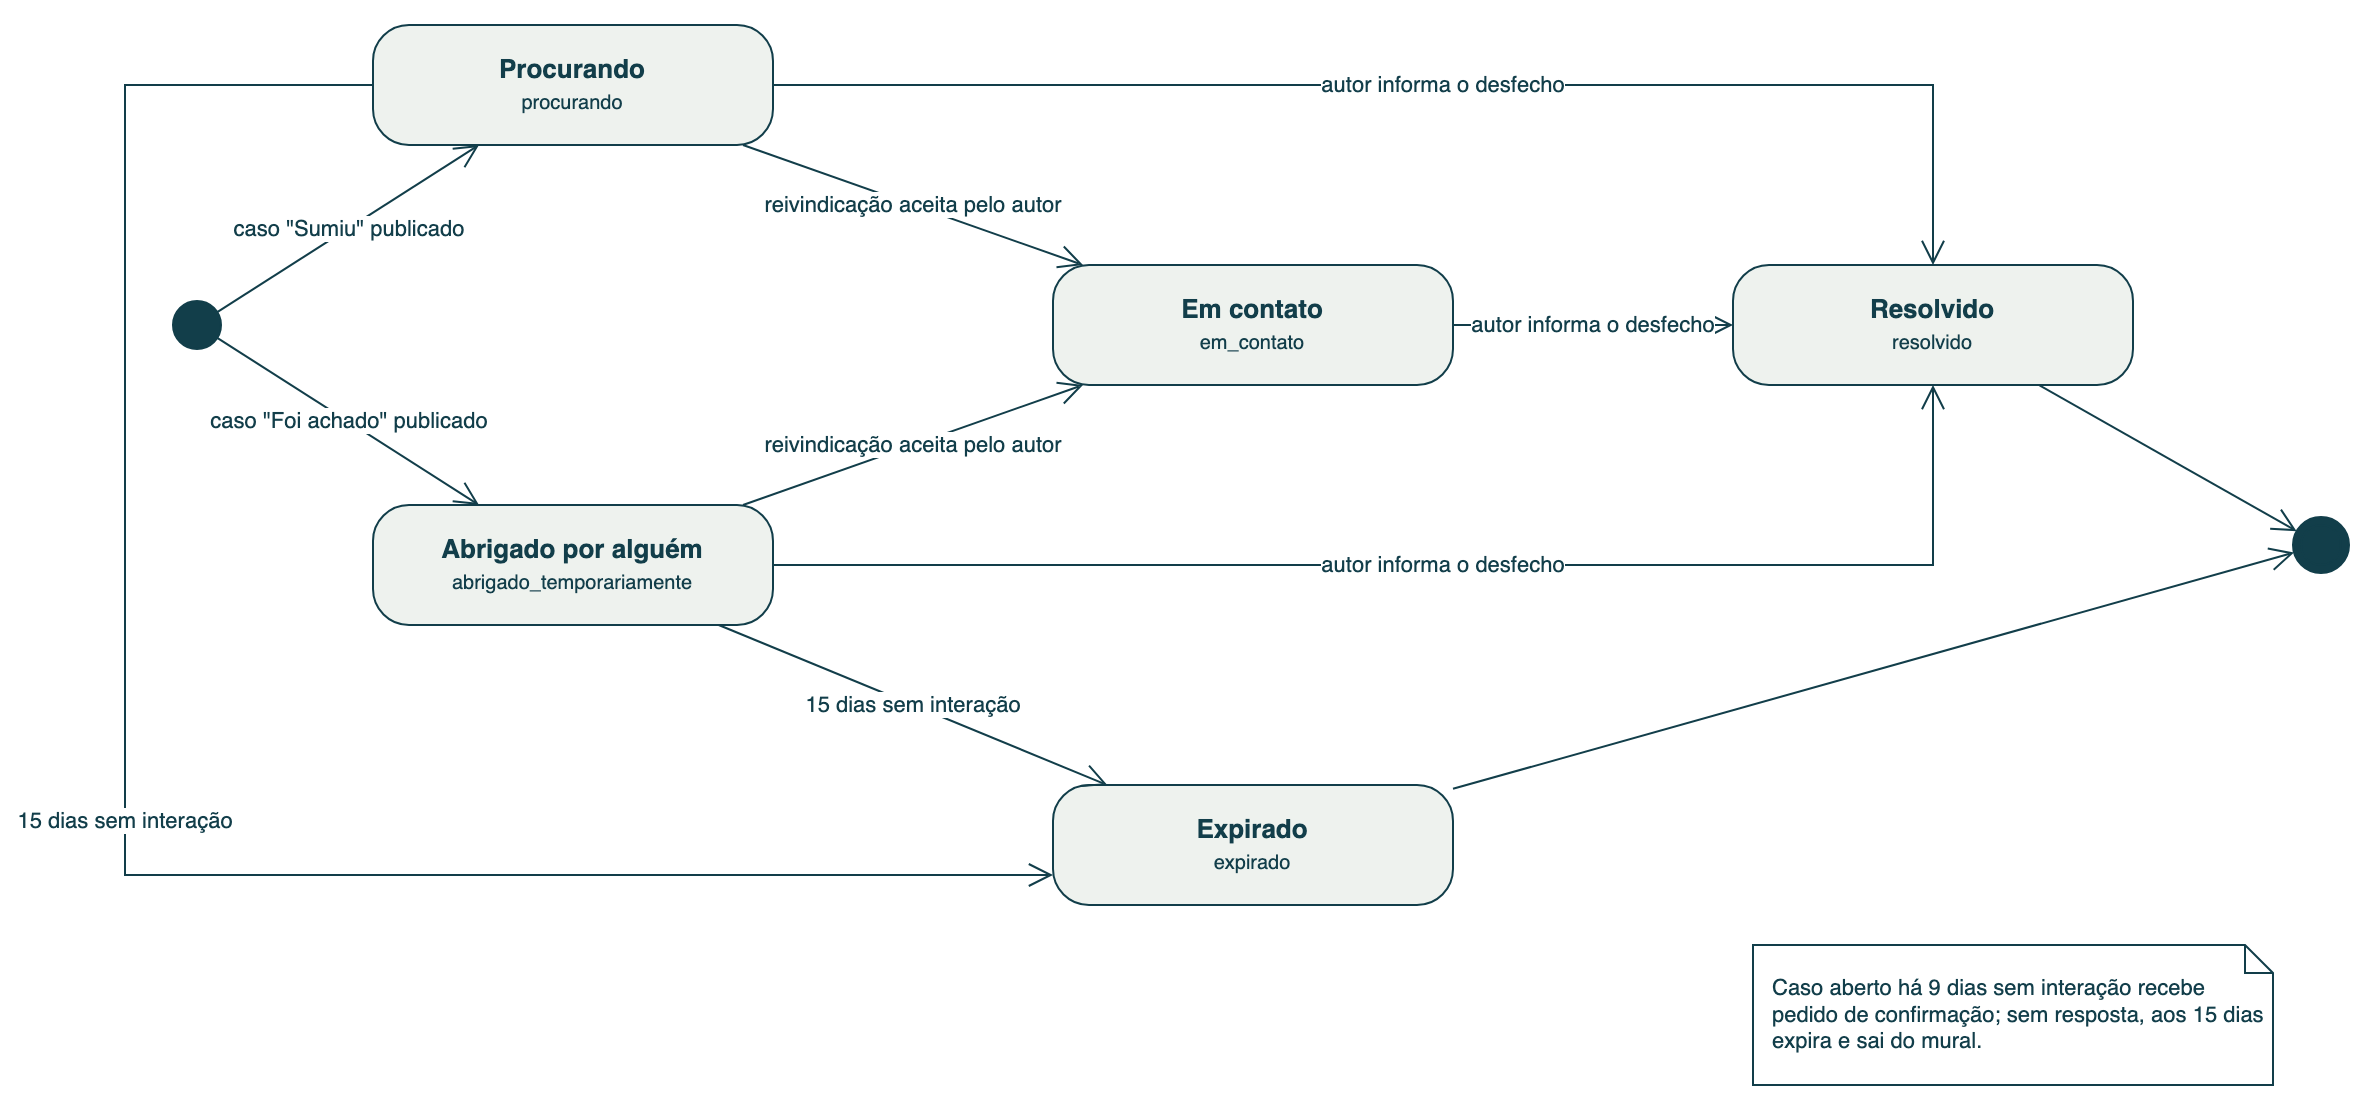
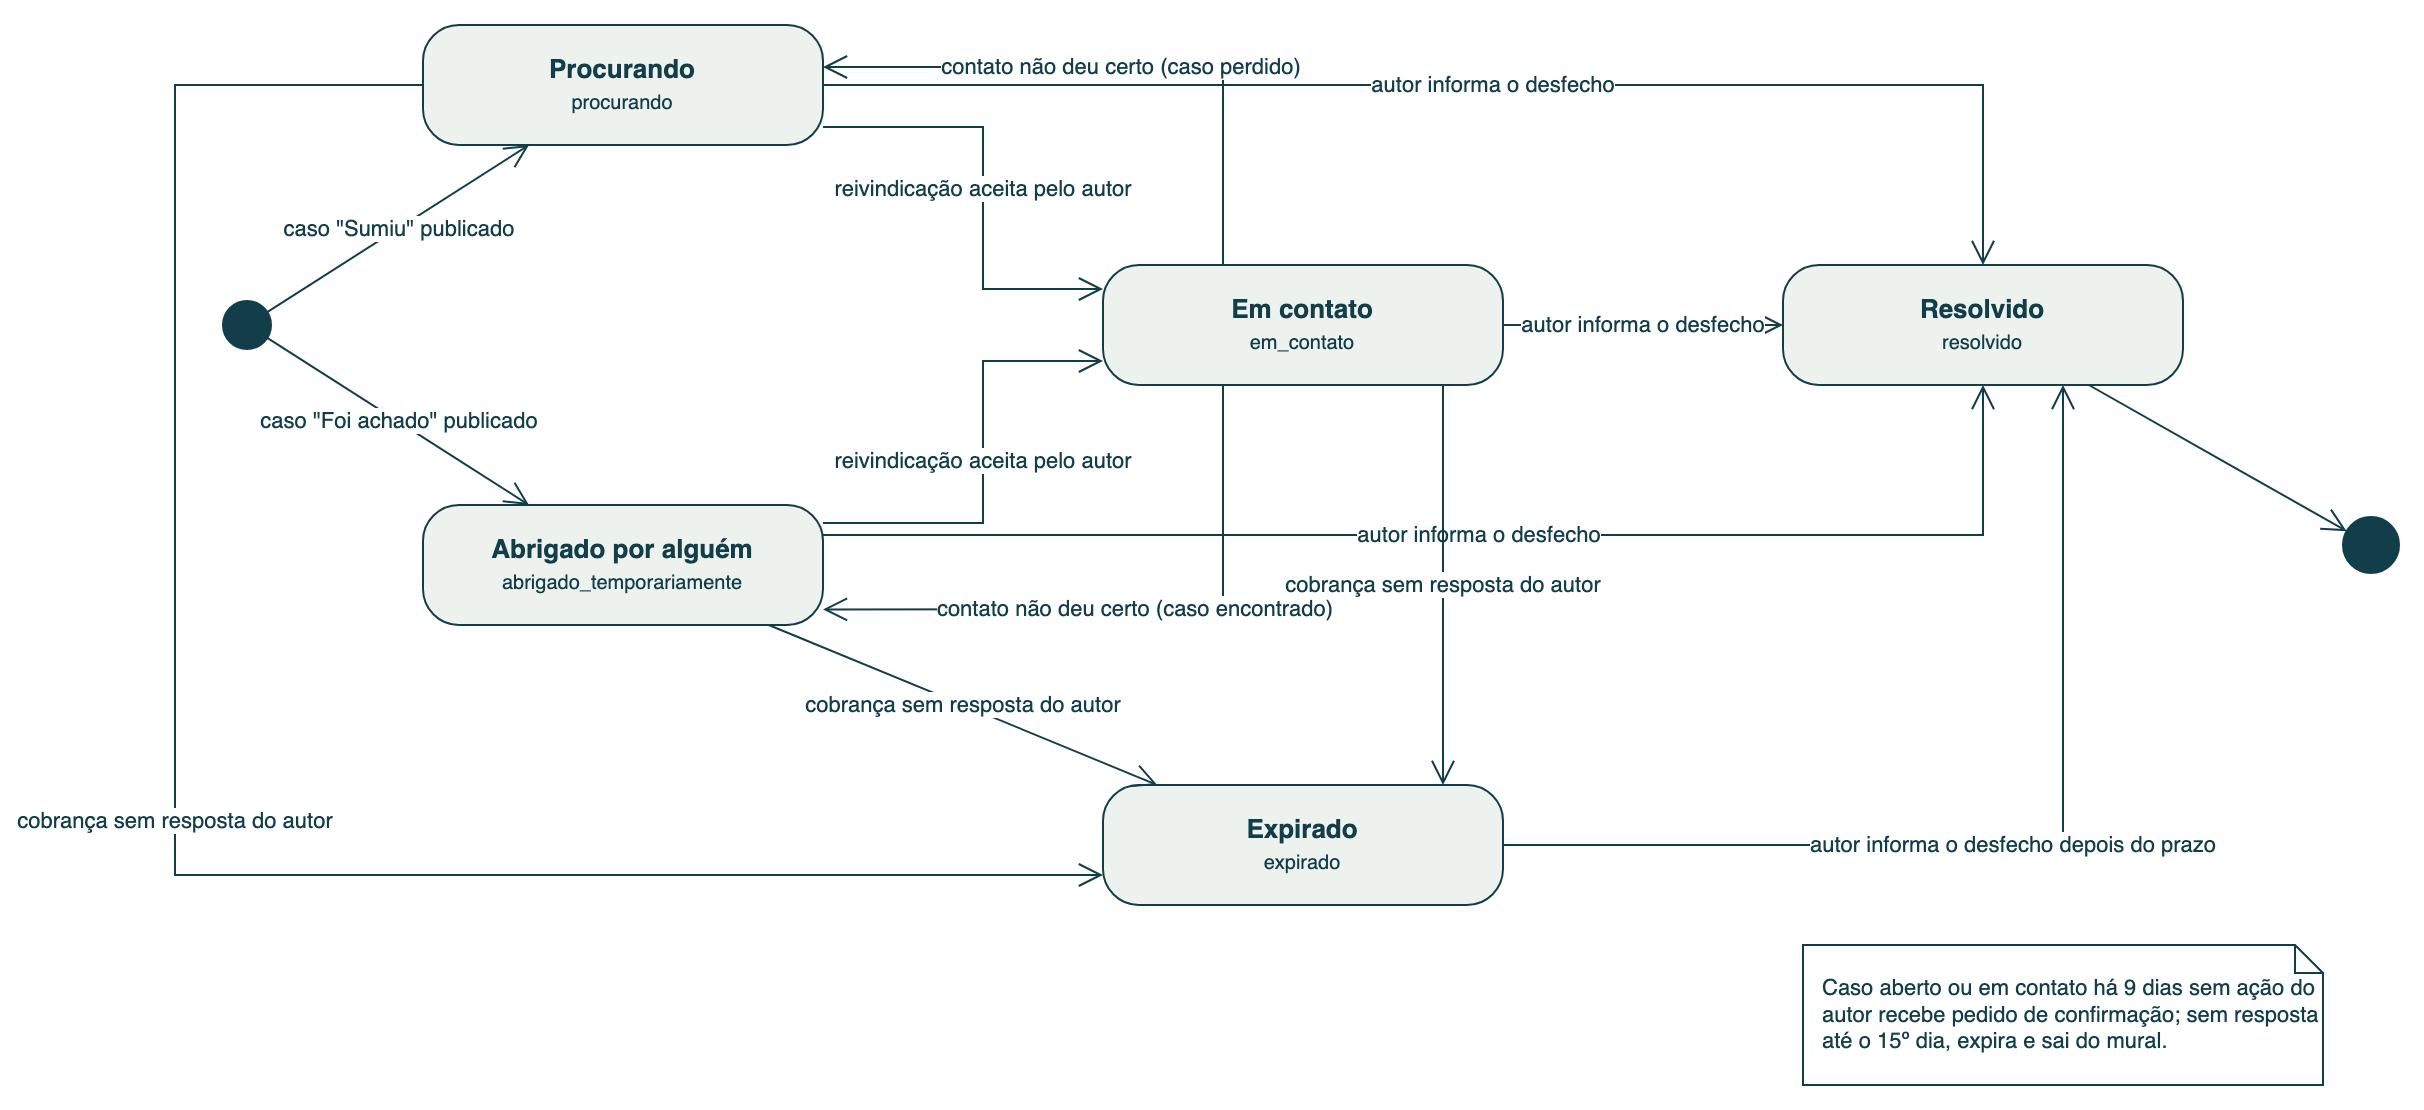
feat(api): migração de reivindicação com código, denúncia, cobrança e id do aparelho; UML regerada

diff --git a/apps/api/src/uml/diagrama-estados.ts b/apps/api/src/uml/diagrama-estados.ts
@@ -28,8 +28,15 @@ const FIM = { x: 1100, y: 326 }
 // desvios para as setas longas não atravessarem outra caixa
 const DESVIOS: Partial<Record<`${EstadoCaso}>${EstadoCaso}`, { pontos: [number, number][]; estilo?: string }>> = {
   'procurando>resolvido': { pontos: [[920, 110]], estilo: 'exitX=1;exitY=0.5;entryX=0.5;entryY=0;' },
-  'abrigado_temporariamente>resolvido': { pontos: [[920, 350]], estilo: 'exitX=1;exitY=0.5;entryX=0.5;entryY=1;' },
+  'abrigado_temporariamente>resolvido': { pontos: [[920, 335]], estilo: 'exitX=1;exitY=0.25;entryX=0.5;entryY=1;' },
   'procurando>expirado': { pontos: [[16, 110], [16, 505]], estilo: 'exitX=0;exitY=0.5;entryX=0;entryY=0.75;' },
+  // ida e volta entre o estado inicial e em_contato seguem caminhos separados
+  'procurando>em_contato': { pontos: [[420, 131], [420, 212]], estilo: 'exitX=1;exitY=0.85;entryX=0;entryY=0.2;' },
+  'em_contato>procurando': { pontos: [[540, 101]], estilo: 'exitX=0.3;exitY=0;entryX=1;entryY=0.35;' },
+  'abrigado_temporariamente>em_contato': { pontos: [[420, 329], [420, 248]], estilo: 'exitX=1;exitY=0.15;entryX=0;entryY=0.8;' },
+  'em_contato>abrigado_temporariamente': { pontos: [[540, 372]], estilo: 'exitX=0.3;exitY=1;entryX=1;entryY=0.87;' },
+  'em_contato>expirado': { estilo: 'exitX=0.85;exitY=1;entryX=0.85;entryY=0;', pontos: [] },
+  'expirado>resolvido': { pontos: [[960, 490]], estilo: 'exitX=1;exitY=0.5;entryX=0.7;entryY=1;' },
 }
 
 const escapar = (texto: string) =>
@@ -77,7 +84,7 @@ export function gerarDiagramaEstados(): string {
   for (const estado of finais) celulas.push(seta(`fim-${estado}`, `estado-${estado}`, 'fim', ''))
 
   celulas.push(
-    `<mxCell id="nota" value="${escapar('Caso aberto há 9 dias sem interação recebe pedido de confirmação; sem resposta, aos 15 dias expira e sai do mural.')}" ` +
+    `<mxCell id="nota" value="${escapar('Caso aberto ou em contato há 9 dias sem ação do autor recebe pedido de confirmação; sem resposta até o 15º dia, expira e sai do mural.')}" ` +
       `style="shape=note;whiteSpace=wrap;html=1;size=14;align=left;spacingLeft=8;fillColor=#FFFFFF;strokeColor=${TINTA};fontColor=${TINTA};fontSize=11;" ` +
       `vertex="1" parent="1"><mxGeometry x="830" y="540" width="260" height="70" as="geometry"/></mxCell>`,
   )

diff --git a/apps/api/src/vocabulario/vocabulario-no-banco.ts b/apps/api/src/vocabulario/vocabulario-no-banco.ts
@@ -1,4 +1,4 @@
-import { ESTADOS_ABERTOS, VOCABULARIO, type NomeConjunto } from '@achei/contratos'
+import { ESTADOS_VIGIADOS, VOCABULARIO, type NomeConjunto } from '@achei/contratos'
 
 /** Primeira linha de toda migração gerada; é por ela que a guarda as reconhece. */
 export const MARCA_MIGRACAO_GERADA = '-- Gerado a partir de packages/contratos/src/vocabulario.ts'
@@ -23,6 +23,7 @@ export const COLUNAS_COM_VOCABULARIO: readonly ColunaComVocabulario[] = [
   { tabela: 'desfecho', coluna: 'tipo', conjunto: 'tipoDesfecho' },
   { tabela: 'tentativa_verificacao', coluna: 'veredito', conjunto: 'vereditoVerificacao' },
   { tabela: 'pareamento', coluna: 'veredito', conjunto: 'vereditoPareamento' },
+  { tabela: 'denuncia', coluna: 'motivo', conjunto: 'motivoDenuncia' },
 ]
 
 function literal(valor: string): string {
@@ -42,11 +43,11 @@ export function gerarSqlVocabulario(): string {
       `ALTER TABLE "${tabela}" ADD CONSTRAINT "${restricao}" CHECK ("${coluna}" IN (${valores}));`,
     ]
   })
-  // índice parcial do modelo ER: só os casos abertos, que é o que as tarefas de
-  // cobrança e expiração consultam por última interação
+  // índice parcial do modelo ER: só os casos vigiados, que é o que a tarefa diária
+  // de cobrança e expiração consulta por última interação
   const indiceCasosAbertos = [
     'DROP INDEX IF EXISTS "idx_caso_ultima_inter";',
-    `CREATE INDEX "idx_caso_ultima_inter" ON "caso" ("ultima_interacao_em") WHERE "estado" IN (${ESTADOS_ABERTOS.map(literal).join(', ')});`,
+    `CREATE INDEX "idx_caso_ultima_inter" ON "caso" ("ultima_interacao_em") WHERE "estado" IN (${ESTADOS_VIGIADOS.map(literal).join(', ')});`,
   ]
   return [
     MARCA_MIGRACAO_GERADA,

diff --git a/apps/api/src/uml/diagrama-estados.spec.ts b/apps/api/src/uml/diagrama-estados.spec.ts
@@ -27,9 +27,10 @@ describe('diagrama de estados gerado do ciclo de vida declarado em contratos', (
     }
   })
 
-  it('leva os estados sem saída ao estado final', () => {
+  it('leva só o estado sem saída ao estado final', () => {
     expect(xml).toContain('source="estado-resolvido" target="fim"')
-    expect(xml).toContain('source="estado-expirado" target="fim"')
+    // expirado ainda recebe o desfecho atrasado, então não termina o diagrama
+    expect(xml).not.toContain('source="estado-expirado" target="fim"')
   })
 
   it('todo estado tem lugar declarado no desenho', () => {

diff --git a/apps/api/src/uml/diagrama-classes.ts b/apps/api/src/uml/diagrama-classes.ts
@@ -55,6 +55,7 @@ export const POSICOES: Record<string, { x: number; y: number }> = {
   Local: { x: 380, y: 640 },
   PerguntaVerificacao: { x: 1060, y: 600 },
   ArquivoFoto: { x: 720, y: 640 },
+  Denuncia: { x: 1060, y: 860 },
 }
 
 const X_ENUMERACOES = [1420, 1660]
